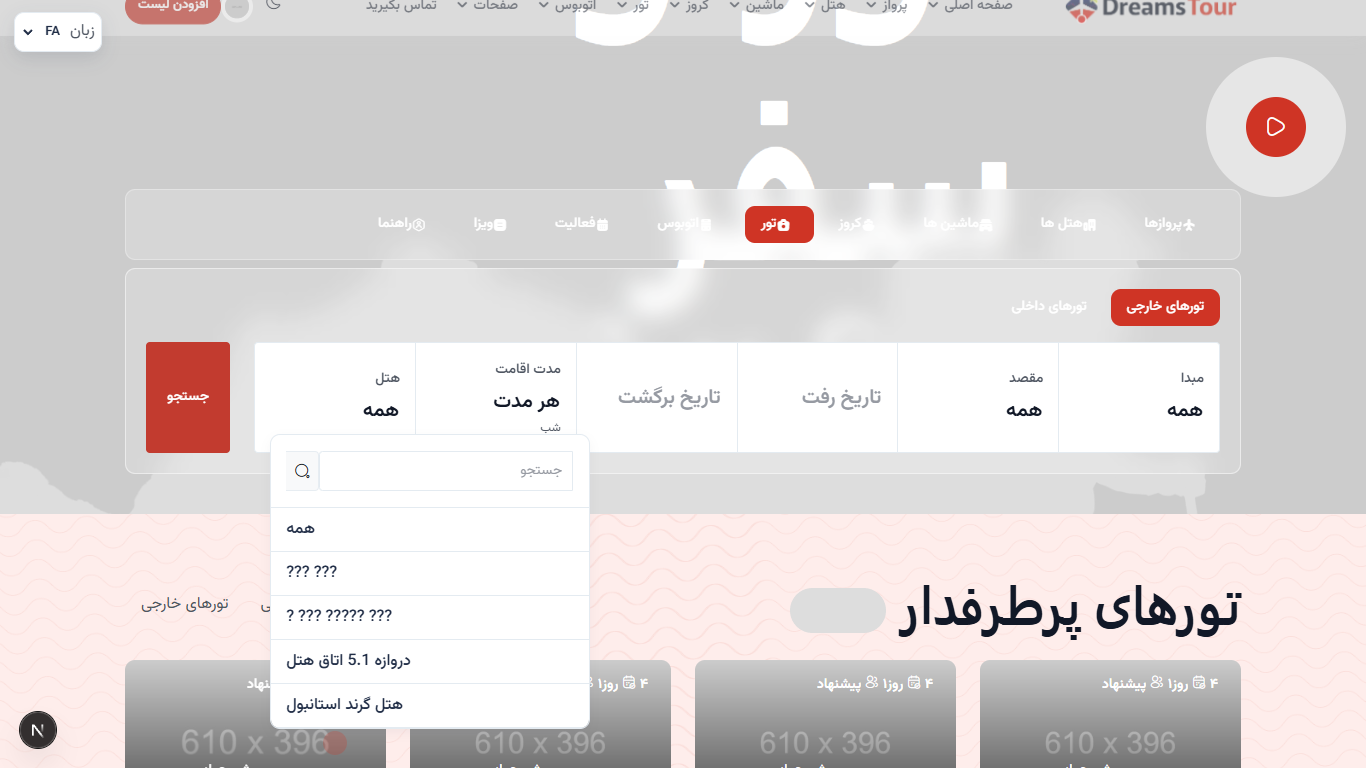
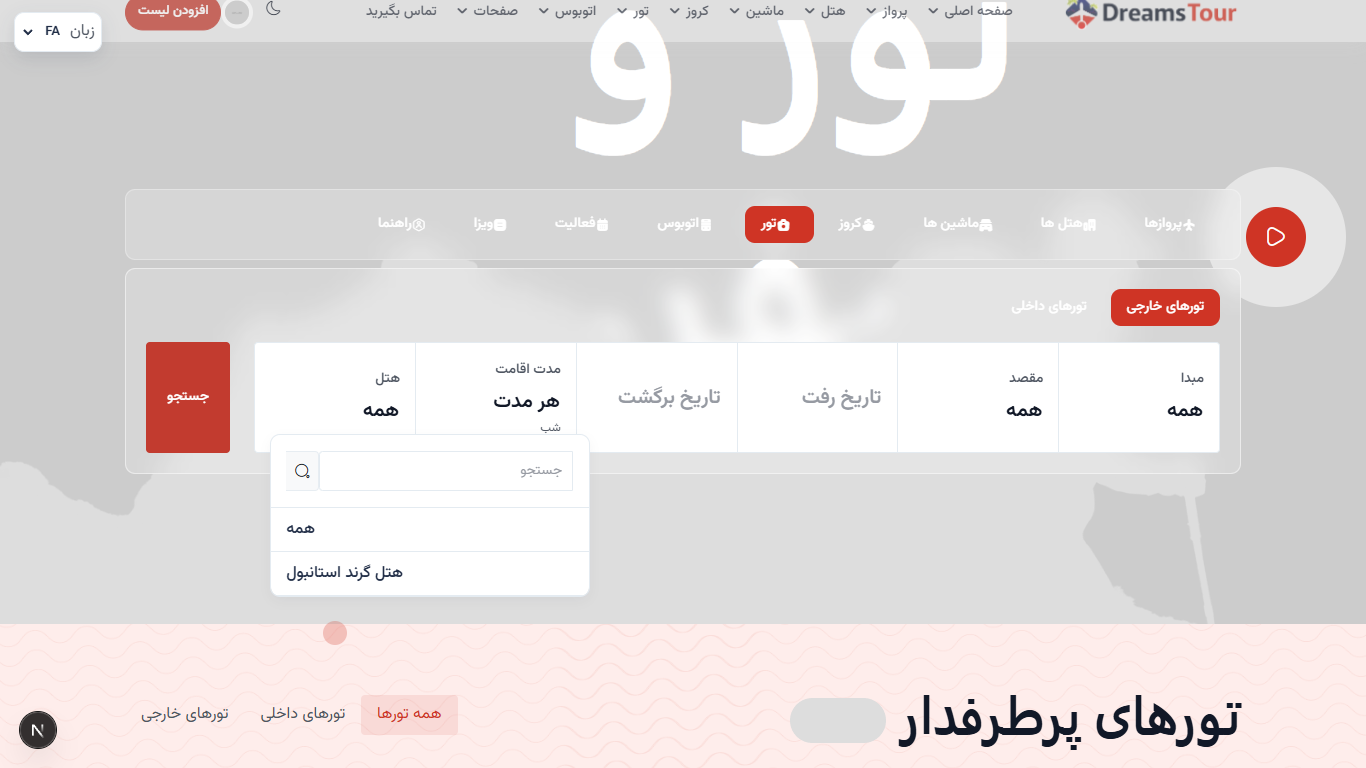
fix: raise hero search and clean duplicate demo catalog labels

diff --git a/frontend/tests/e2e/public-smoke.spec.ts b/frontend/tests/e2e/public-smoke.spec.ts
@@ -203,6 +203,23 @@ test.describe("public smoke", () => {
     await expect(input).toHaveAttribute("data-iso-value", /^\d{4}-\d{2}-\d{2}$/);
   });
 
+  test("search options are unique and contain no corrupted labels", async ({
+    request
+  }) => {
+    const response = await request.get(
+      "http://localhost:5099/market/v1/search/options?locale=fa&scope=Foreign"
+    );
+    expect(response.status()).toBe(200);
+    const data = (await response.json()) as {
+      destinations: string[];
+      hotels: string[];
+    };
+    expect(new Set(data.destinations).size).toBe(data.destinations.length);
+    expect(new Set(data.hotels).size).toBe(data.hotels.length);
+    expect(data.destinations.every((name) => !name.includes("?"))).toBe(true);
+    expect(data.hotels.every((name) => !name.includes("?"))).toBe(true);
+  });
+
   test("api rejects Jalali-shaped dates and accepts Gregorian dates", async ({
     request
   }) => {

diff --git a/frontend/src/style/scss/pages/_home-08.scss b/frontend/src/style/scss/pages/_home-08.scss
@@ -20,6 +20,9 @@
     flex-direction: column;
     justify-content: flex-end;
     z-index: 1;
+    @media (min-width: 992px) {
+        padding-bottom: 150px;
+    }
     @include mixins.respond-below(md){
         height: auto;
         padding-top: 45%;

diff --git a/src/Hani.Api/LastsecondParityEndpoints.cs b/src/Hani.Api/LastsecondParityEndpoints.cs
@@ -183,14 +183,14 @@ public static class LastsecondParityEndpoints
 
         var origins = tours.Value!.Items
             .Select(item => item.OriginDestinationName)
-            .Where(name => !string.IsNullOrWhiteSpace(name))
+            .Where(name => !string.IsNullOrWhiteSpace(name) && !name.Contains('?'))
             .Cast<string>()
             .Distinct(StringComparer.OrdinalIgnoreCase)
             .OrderBy(name => name, StringComparer.OrdinalIgnoreCase)
             .ToArray();
         var destinations = tours.Value.Items
             .SelectMany(item => item.DestinationNames ?? [])
-            .Where(name => !string.IsNullOrWhiteSpace(name))
+            .Where(name => !string.IsNullOrWhiteSpace(name) && !name.Contains('?'))
             .Distinct(StringComparer.OrdinalIgnoreCase)
             .OrderBy(name => name, StringComparer.OrdinalIgnoreCase)
             .ToArray();
@@ -201,7 +201,9 @@ public static class LastsecondParityEndpoints
             .ToArray();
         var hotelNames = hotels.IsSuccess
             ? hotels.Value!.Items
+                .Where(item => !IsInternalDemoHotel(item.Slug))
                 .Select(item => item.Name)
+                .Where(name => !name.Contains('?'))
                 .Distinct(StringComparer.OrdinalIgnoreCase)
                 .OrderBy(name => name, StringComparer.OrdinalIgnoreCase)
                 .ToArray()
@@ -209,6 +211,11 @@ public static class LastsecondParityEndpoints
 
         return Results.Ok(new SearchOptionsDto(origins, destinations, durations, hotelNames));
     }
+
+    private static bool IsInternalDemoHotel(string slug) =>
+        slug.StartsWith("audit-", StringComparison.OrdinalIgnoreCase) ||
+        slug.StartsWith("gate5", StringComparison.OrdinalIgnoreCase) ||
+        slug.StartsWith("test-", StringComparison.OrdinalIgnoreCase);
 
     private static async Task<IResult> GetHomeAsync(
         string? locale,

diff --git a/docs/reports/gate-9.1-calendar-architecture.md b/docs/reports/gate-9.1-calendar-architecture.md
@@ -53,8 +53,12 @@ Jalali conversion exists only in the UI adapter.
   without page-level calendar code.
 - Dashboard `PredefinedDateRanges` box with calendar-aware month presets.
 - Home hero dropdowns are self-contained, searchable, and progressively
-  reveal more options on scroll. They are portaled to the body, always open below the trigger, and follow
-  the trigger on page scroll without clipping.
+  reveal more options on scroll. They are portaled to the body, always open
+  below the trigger, and follow the trigger on page scroll without clipping.
+- The desktop hero form is raised so the search fields are visible without
+  scrolling at 1366x768.
+- Local demo catalog labels were repaired; internal test hotels are excluded
+  from public search options and duplicate destination names are collapsed.
 - Public tour cards, home content, blog/content lists and details, agency
   profile, checkout, user/agent dashboards, invoices, payments, refunds,
   notifications and reviews now use the shared formatter.

diff --git a/docs/plan/STATUS.md b/docs/plan/STATUS.md
@@ -577,3 +577,4 @@
 - Calendar/dropdown QA fix: repaired corrupted FA/AR message strings, date modal text verified, dropdown flips upward and stays inside viewport.
 - Date/dropdown QA follow-up: modal title deduplicated; dropdown always opens below and scrolls with the page.
 - Date label/portal follow-up: date labels appear only after selection, dropdown menu is portaled/fixed and follows scroll, FA/AR message strings verified clean.
+- Home search polish: hero form raised, dropdown portal positioning verified, demo catalog labels repaired, test hotels filtered.

diff --git a/docs/plan/DONE.md b/docs/plan/DONE.md
@@ -284,3 +284,4 @@
 | `fea4cf6` | Calendar/dropdown QA: repaired FA/AR message strings and kept dropdown menus inside the viewport |
 | `89cceb2` | Date/dropdown QA follow-up: single modal title, dropdown always below, message strings repaired |
 | `e6248a8` | Date label/portal follow-up: conditional labels, portaled dropdown below trigger, repaired FA/AR strings |
+| `pending` | Home search polish: raised hero form, repaired demo labels, filtered test hotels, unique options test |
